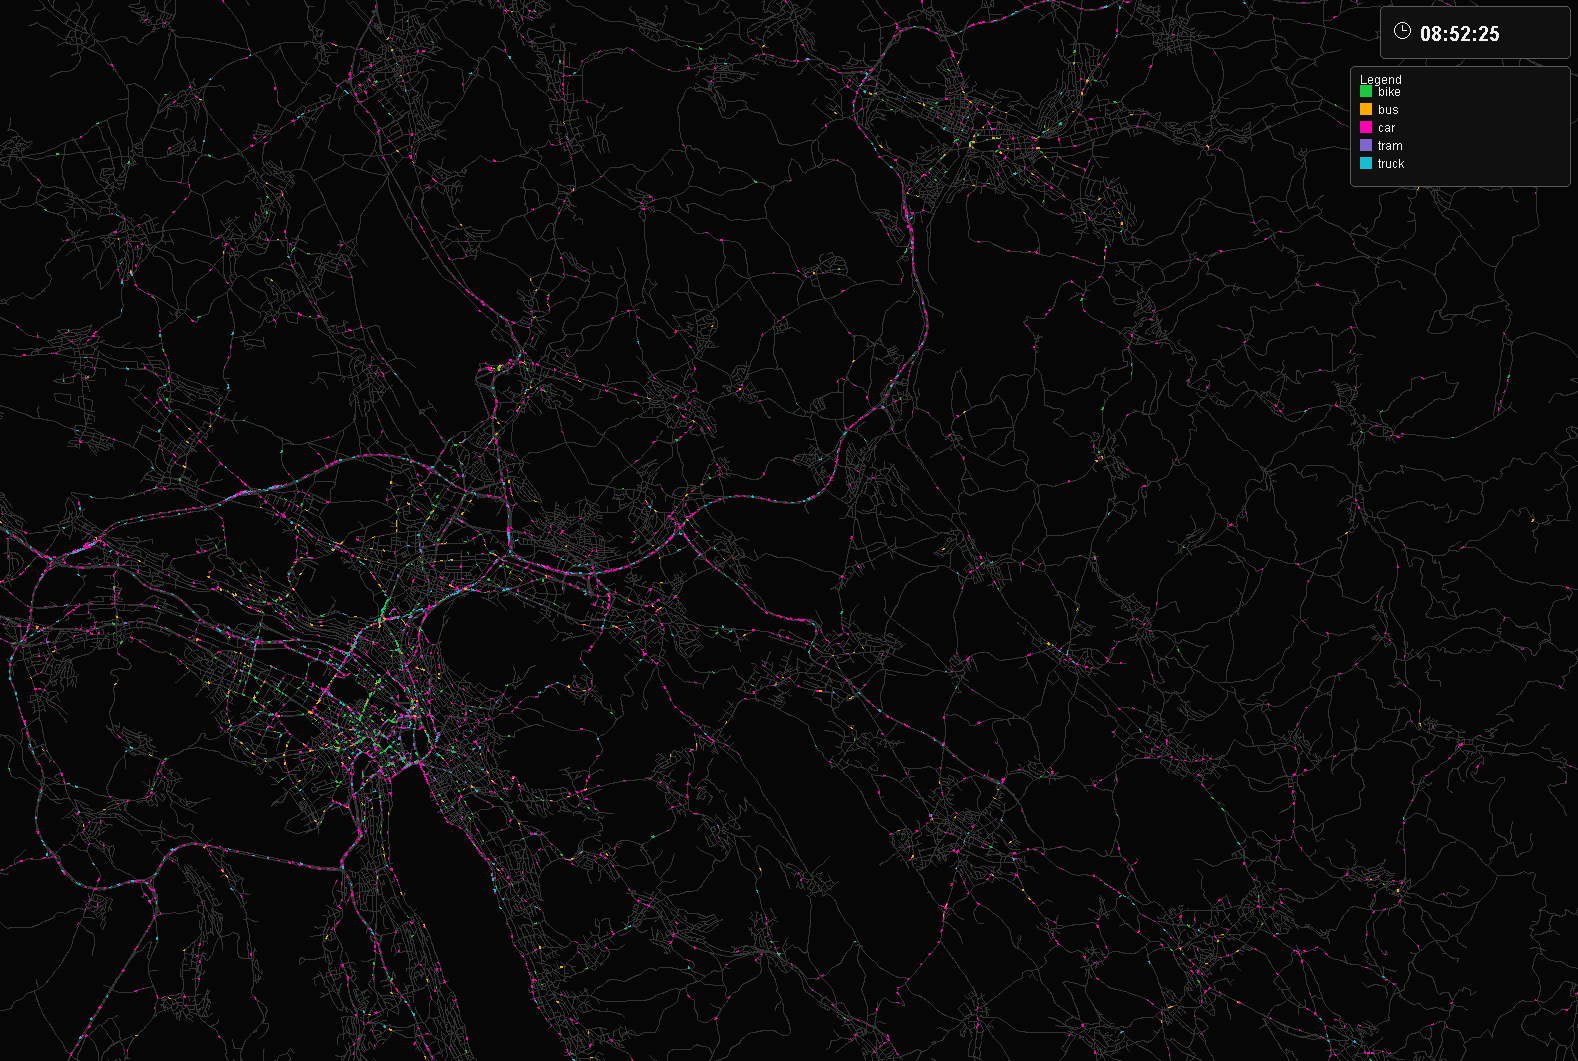
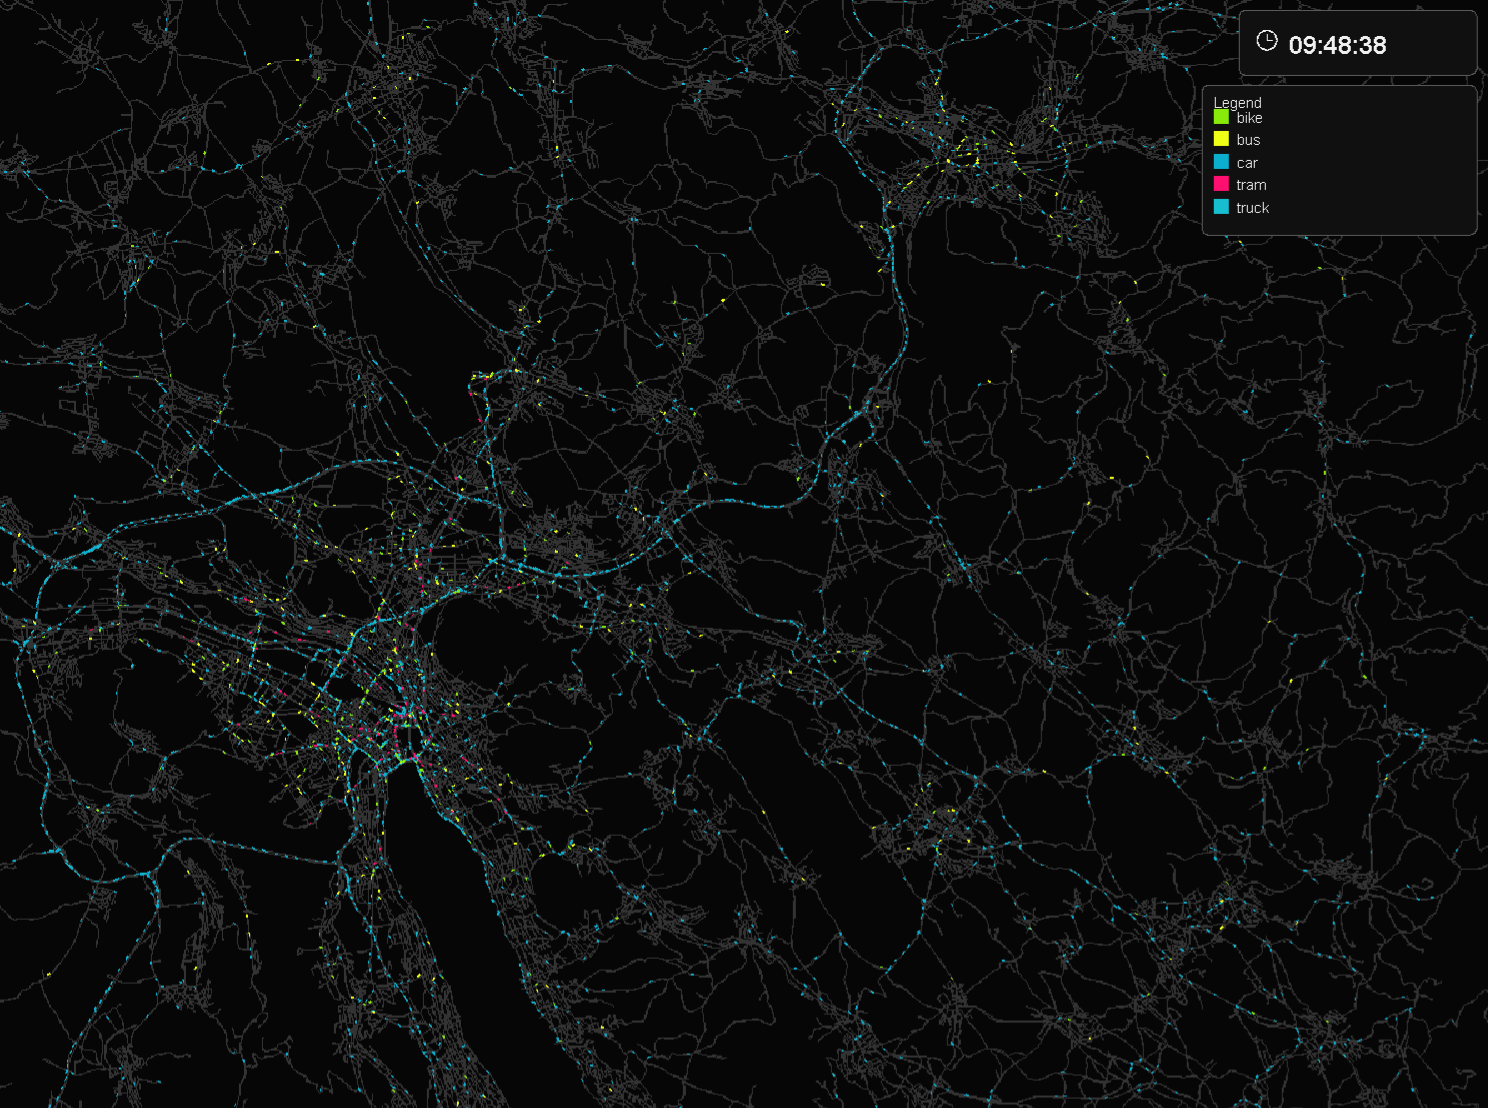
feat: Add links offset for bidirectional links

diff --git a/src/main/java/com/matsim/viz/ui/NetworkPanel.java b/src/main/java/com/matsim/viz/ui/NetworkPanel.java
@@ -64,6 +64,7 @@ public final class NetworkPanel extends JPanel {
     private boolean showQueues = false;
     private boolean showBottleneck;
     private double bottleneckDivisor = 6.0;
+    private double bidirectionalOffset = 0.45;
     private double sampleSize = 1.0;
     private double carLikeVehicleLengthMeters = DEFAULT_CAR_LIKE_LENGTH_METERS;
     private double bikeVehicleLengthMeters = DEFAULT_BIKE_LENGTH_METERS;
@@ -233,6 +234,16 @@ public final class NetworkPanel extends JPanel {
     public void setShowQueues(boolean showQueues) {
         this.showQueues = showQueues;
         repaint();
+    }
+
+    public void setBidirectionalOffset(double offset) {
+        this.bidirectionalOffset = Math.max(0.0, Math.min(1.0, offset));
+        invalidateNetworkCache();
+        repaint();
+    }
+
+    public double getBidirectionalOffset() {
+        return bidirectionalOffset;
     }
 
     public void setShowBottleneck(boolean show) {
@@ -451,6 +462,13 @@ public final class NetworkPanel extends JPanel {
         double laneWidth = laneWidthPixels();
         Map<String, double[]> nodeMaxRadius = new HashMap<>();
 
+        Set<String> renderedNodePairs = new HashSet<>();
+        for (LinkSegment link : model.networkData().getLinks().values()) {
+            if (shouldRenderLink(link)) {
+                renderedNodePairs.add(link.fromNodeId() + ">" + link.toNodeId());
+            }
+        }
+
         g2.setColor(MAP_ROAD);
         for (LinkSegment link : model.networkData().getLinks().values()) {
             if (!shouldRenderLink(link)) {
@@ -471,6 +489,19 @@ public final class NetworkPanel extends JPanel {
             double ny = dx / length;
             double angle = Math.atan2(dy, dx);
             float roadWidth = (float) Math.max(0.35, Math.min(32.0, laneWidth * laneCount));
+
+            boolean hasReverse = renderedNodePairs.contains(link.toNodeId() + ">" + link.fromNodeId());
+            double offsetX = 0;
+            double offsetY = 0;
+            if (hasReverse) {
+                double shift = roadWidth * bidirectionalOffset;
+                offsetX = nx * shift;
+                offsetY = ny * shift;
+                a.x += offsetX;
+                a.y += offsetY;
+                b.x += offsetX;
+                b.y += offsetY;
+            }
 
             g2.setStroke(new BasicStroke(roadWidth, BasicStroke.CAP_ROUND, BasicStroke.JOIN_ROUND));
             g2.drawLine((int) Math.round(a.x), (int) Math.round(a.y), (int) Math.round(b.x), (int) Math.round(b.y));
@@ -1004,8 +1035,7 @@ public final class NetworkPanel extends JPanel {
 
     private static Set<String> defaultTransportModes(List<String> availableModes) {
         Set<String> selected = new HashSet<>();
-        Set<String> defaults = Set.of("car", "bike", "bicycle", "truck", "freight", "hdv",
-                "bus", "tram", "rail", "train", "subway", "metro", "ferry", "funicular");
+        Set<String> defaults = Set.of("car", "bike", "truck", "bus", "tram");
         for (String mode : availableModes) {
             String normalized = normalizeMode(mode);
             if (defaults.contains(normalized)) {

diff --git a/src/main/java/com/matsim/viz/ui/fx/FxVisualizerApp.java b/src/main/java/com/matsim/viz/ui/fx/FxVisualizerApp.java
@@ -220,8 +220,18 @@ public final class FxVisualizerApp extends Application {
         VBox card = createCard("Display Settings");
 
         CheckBox queueToggle = new CheckBox("Show Link Queues");
-        queueToggle.setSelected(true);
+        queueToggle.setSelected(false);
         queueToggle.setOnAction(e -> runOnEdt(() -> networkPanel.setShowQueues(queueToggle.isSelected())));
+
+        Label offsetCaption = new Label("Bidirectional link offset");
+        offsetCaption.getStyleClass().add("field-caption");
+        Slider offsetSlider = new Slider(0.0, 1.0, getOnEdt(networkPanel::getBidirectionalOffset));
+        Label offsetValue = new Label(String.format("%.2f", offsetSlider.getValue()));
+        offsetValue.getStyleClass().add("mono-value");
+        offsetSlider.valueProperty().addListener((obs, oldValue, newValue) -> {
+            runOnEdt(() -> networkPanel.setBidirectionalOffset(newValue.doubleValue()));
+            offsetValue.setText(String.format("%.2f", newValue.doubleValue()));
+        });
 
         final Stage[] colorSettingsWindow = {null};
         Button colorSettingsButton = new Button("Color Settings\u2026");
@@ -253,7 +263,7 @@ public final class FxVisualizerApp extends Application {
             geometrySettingsWindow[0].toFront();
         });
 
-        card.getChildren().addAll(queueToggle, colorSettingsButton, geometrySettingsButton);
+        card.getChildren().addAll(queueToggle, offsetCaption, offsetSlider, offsetValue, colorSettingsButton, geometrySettingsButton);
         return card;
     }
 
@@ -709,8 +719,7 @@ public final class FxVisualizerApp extends Application {
 
     private static Set<String> defaultTransportModes(List<String> availableModes) {
         Set<String> selected = new LinkedHashSet<>();
-        Set<String> defaults = Set.of("car", "bike", "bicycle", "truck", "freight", "hdv",
-                "bus", "tram", "rail", "train", "subway", "metro", "ferry", "funicular");
+        Set<String> defaults = Set.of("car", "bike", "truck", "bus", "tram");
         for (String mode : availableModes) {
             String normalized = normalizeMode(mode);
             if (defaults.contains(normalized)) {

diff --git a/src/main/java/com/matsim/viz/ui/VehicleColorProvider.java b/src/main/java/com/matsim/viz/ui/VehicleColorProvider.java
@@ -11,8 +11,8 @@ import java.util.Locale;
 import java.util.Map;
 
 public final class VehicleColorProvider {
-    private static final Color DEFAULT_CAR_MODE_COLOR = new Color(0xFF00B3);
-    private static final Color DEFAULT_BIKE_MODE_COLOR = new Color(0x18C93C);
+    private static final Color DEFAULT_CAR_MODE_COLOR = new Color(0xFF0BAECF);
+    private static final Color DEFAULT_BIKE_MODE_COLOR = new Color(0x87EA0B);
 
     private static final Color[] PALETTE = new Color[]{
             new Color(0x1F77B4),
@@ -44,15 +44,15 @@ public final class VehicleColorProvider {
     public VehicleColorProvider() {
         modeColors.put("car", DEFAULT_CAR_MODE_COLOR);
         modeColors.put("bike", DEFAULT_BIKE_MODE_COLOR);
-        modeColors.put("bus", new Color(0xFFAA00));
-        modeColors.put("tram", new Color(0x00BB44));
-        modeColors.put("rail", new Color(0xDD3333));
-        modeColors.put("train", new Color(0xDD3333));
+        modeColors.put("bus", new Color(0xF0FF17));
+        modeColors.put("tram", new Color(0xFF0F6F));
+        modeColors.put("rail", new Color(0x6C0202));
+        modeColors.put("train", new Color(0xFD0000));
         modeColors.put("subway", new Color(0x0077CC));
         modeColors.put("metro", new Color(0x0077CC));
-        modeColors.put("ferry", new Color(0x00AACC));
+        modeColors.put("ferry", new Color(0x00FFC3));
         modeColors.put("funicular", new Color(0x8855BB));
-        sexColors.put("male", new Color(0x11116B));
+        sexColors.put("male", new Color(0xFF0BAECF, true));
         sexColors.put("female", new Color(0xFF4FA3));
         sexColors.put("other", new Color(0xFFC857));
         sexColors.put("unknown", new Color(0x9A9A9A));

diff --git a/src/main/java/com/matsim/viz/ui/VisualizerFrame.java b/src/main/java/com/matsim/viz/ui/VisualizerFrame.java
@@ -99,7 +99,7 @@ public final class VisualizerFrame extends JFrame {
             }
         });
 
-        JCheckBox queuesCheckbox = new JCheckBox("Show Link Queues", true);
+        JCheckBox queuesCheckbox = new JCheckBox("Show Link Queues", false);
         queuesCheckbox.addActionListener(e -> networkPanel.setShowQueues(queuesCheckbox.isSelected()));
 
         timeLabel = new JLabel();
